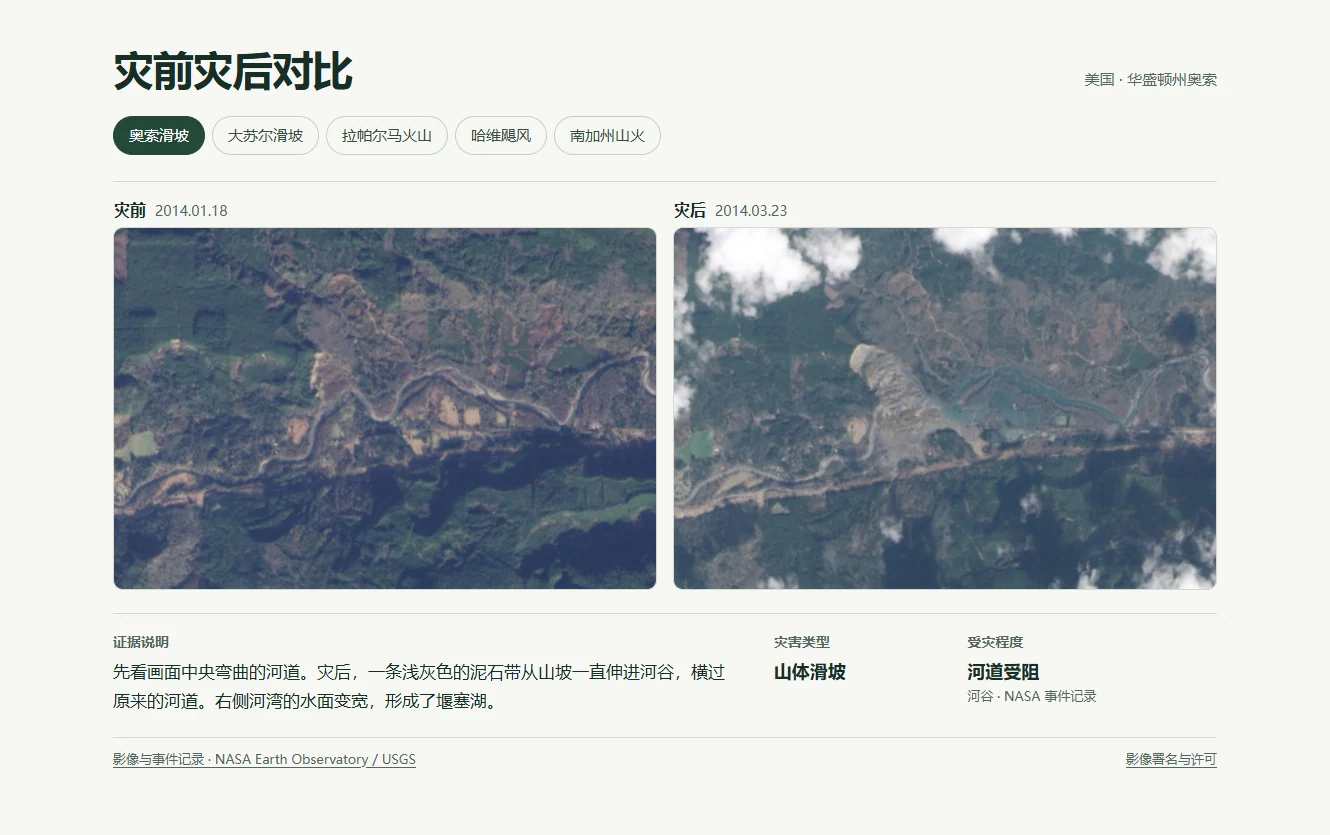
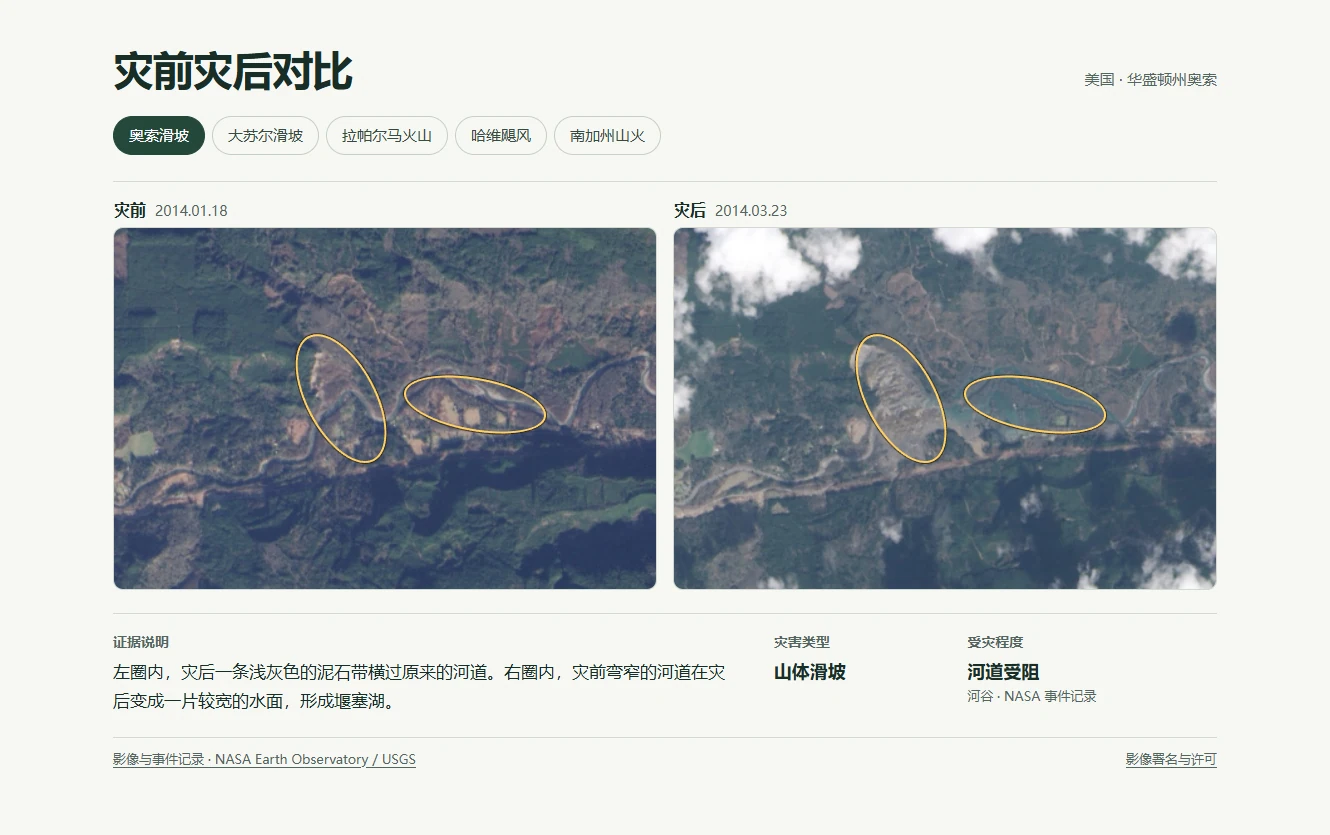
Circle corresponding evidence in both disaster images and their enlarged views

diff --git a/docs/assets/gallery.js b/docs/assets/gallery.js
@@ -6,7 +6,7 @@ const GALLERY = [
     "type": "山体滑坡",
     "severity": "河道受阻",
     "basis": "河谷 · NASA 事件记录",
-    "evidence": "先看画面中央弯曲的河道。灾后，一条浅灰色的泥石带从山坡一直伸进河谷，横过原来的河道。右侧河湾的水面变宽，形成了堰塞湖。",
+    "evidence": "左圈内，灾后一条浅灰色的泥石带横过原来的河道。右圈内，灾前弯窄的河道在灾后变成一片较宽的水面，形成堰塞湖。",
     "credit": "影像与事件记录 · NASA Earth Observatory / USGS",
     "source": "https://science.nasa.gov/earth/earth-observatory/landslide-and-barrier-lake-near-oso-washington-83409/",
     "before": {
@@ -18,7 +18,23 @@ const GALLERY = [
       "date": "2014-03-23",
       "file": "geology/oso-post.png",
       "alt": "奥索滑坡后，泥土和碎屑伸入河道，上游出现更宽的水面。"
-    }
+    },
+    "rings": [
+      [
+        35.5,
+        27.7,
+        13,
+        39,
+        -28
+      ],
+      [
+        53.3,
+        41.6,
+        26.6,
+        14.8,
+        10
+      ]
+    ]
   },
   {
     "id": "mud-creek",
@@ -27,7 +43,7 @@ const GALLERY = [
     "type": "海岸边坡滑塌",
     "severity": "超过 400 米公路被毁",
     "basis": "公路路段 · USGS 调查",
-    "evidence": "灾前，浅色公路沿海岸连续通过。灾后，画面中央的灰褐色土石盖住了这段公路，一直堆到海里，海岸线在这里向外凸出。",
+    "evidence": "灾前，圈内的浅色公路沿海岸连续通过。灾后，灰褐色土石盖住了这段公路，并在岸边堆出一块向海突出的陆地。",
     "credit": "影像 · NASA Earth Observatory / USGS",
     "source": "https://science.nasa.gov/earth/earth-observatory/landslide-buries-scenic-california-highway-90281/",
     "before": {
@@ -39,7 +55,15 @@ const GALLERY = [
       "date": "2017-05-22",
       "file": "geology/mud-creek-post.png",
       "alt": "大苏尔滑坡后，土石堆积伸入海中，海岸轮廓向外突出。"
-    }
+    },
+    "rings": [
+      [
+        41.6,
+        40,
+        14.8,
+        22
+      ]
+    ]
   },
   {
     "id": "la-palma",
@@ -48,7 +72,7 @@ const GALLERY = [
     "type": "火山熔岩覆盖",
     "severity": "大片沿岸农田被覆盖",
     "basis": "沿岸区域 · NASA 影像解读",
-    "evidence": "以左上方的小港口为参照。灾前，沿岸是绿色农田和白色温室。灾后，两条深灰色熔岩带穿过农田、延伸入海，海岸线上多出两处突起。",
+    "evidence": "以上方的小港口为参照。灾前，两处圈内可见农田和温室。灾后，深灰色熔岩沿这两处到达海边，原来的海岸线向海中凸出。",
     "credit": "影像与事件记录 · NASA Earth Observatory / USGS",
     "source": "https://science.nasa.gov/earth/earth-observatory/a-changed-landscape-on-la-palma-149231/",
     "before": {
@@ -60,7 +84,23 @@ const GALLERY = [
       "date": "2021-12-15",
       "file": "geology/volcano/la-palma-after.png",
       "alt": "拉帕尔马岛灾后，两条深灰色熔岩带到达海边，覆盖农田，形成新的陆地。"
-    }
+    },
+    "rings": [
+      [
+        42.1,
+        38.8,
+        19.2,
+        10,
+        -6
+      ],
+      [
+        46.4,
+        64.2,
+        21.2,
+        18,
+        -9
+      ]
+    ]
   },
   {
     "id": "harvey",
@@ -69,31 +109,36 @@ const GALLERY = [
     "type": "飓风",
     "severity": "严重受损",
     "basis": "整栋建筑 · xBD 原始标注",
-    "evidence": "白框标出同一块屋面。灾前框内呈绿色，灾后接近白色，整块区域明显变亮。",
+    "evidence": "两幅图的圈内是同一块屋面。灾前呈绿色，灾后接近白色，局部明显变亮。",
     "credit": "影像与建筑标注 · xBD / Maxar",
     "source": "https://huggingface.co/datasets/ziruihan/xbd_test/blob/361e53f86506e1f221f42a0c0d9619c213220ae5/test/labels/hurricane-harvey_00000304_post_disaster.json",
     "before": {
       "date": "2017-02-16",
       "file": "buildings/b-8d20ecdd66c0-pre.png",
-      "alt": "哈维飓风前的建筑，白框标出用于对照的屋面位置。",
-      "box": [
-        41.369,
-        43.4524,
-        13.0952,
-        16.6667
+      "alt": "哈维飓风前的建筑，圈注标出用于对照的屋面位置。",
+      "rings": [
+        [
+          41.369,
+          43.4524,
+          13.0952,
+          16.6667
+        ]
       ]
     },
     "after": {
       "date": "2017-08-31",
       "file": "buildings/b-8d20ecdd66c0-post.png",
-      "alt": "哈维飓风后的同一栋建筑，白框标出相应的屋面位置。",
-      "box": [
-        40.1786,
-        43.4524,
-        13.0952,
-        16.6667
+      "alt": "哈维飓风后的同一栋建筑，圈注标出相应的屋面位置。",
+      "rings": [
+        [
+          40.1786,
+          43.4524,
+          13.0952,
+          16.6667
+        ]
       ]
-    }
+    },
+    "subject": "building"
   },
   {
     "id": "socal-fire",
@@ -102,30 +147,35 @@ const GALLERY = [
     "type": "山火",
     "severity": "无明显损伤",
     "basis": "整栋建筑 · xBD 原始标注",
-    "evidence": "白框内的屋面从棕褐色变为灰褐色。灾后，同一区域内的深浅差异更容易分辨。",
+    "evidence": "圈内的屋面从棕褐色变为灰褐色，灾后深浅差异更明显。这栋建筑的整体标注为无明显损伤。",
     "credit": "影像与建筑标注 · xBD / Maxar",
     "source": "https://huggingface.co/datasets/ziruihan/xbd_test/blob/361e53f86506e1f221f42a0c0d9619c213220ae5/test/labels/socal-fire_00000877_post_disaster.json",
     "before": {
       "date": "2018-10-23",
       "file": "buildings/b-abe0ad891f51-pre.png",
-      "alt": "南加州山火前的建筑，白框标出用于对照的屋面位置。",
-      "box": [
-        50.8929,
-        49.4048,
-        14.5833,
-        11.0119
+      "alt": "南加州山火前的建筑，圈注标出用于对照的屋面位置。",
+      "rings": [
+        [
+          50.8929,
+          49.4048,
+          14.5833,
+          11.0119
+        ]
       ]
     },
     "after": {
       "date": "2018-11-14",
       "file": "buildings/b-abe0ad891f51-post.png",
-      "alt": "南加州山火后的同一栋建筑，白框标出相应的屋面位置。",
-      "box": [
-        52.9762,
-        51.4881,
-        14.5833,
-        11.0119
+      "alt": "南加州山火后的同一栋建筑，圈注标出相应的屋面位置。",
+      "rings": [
+        [
+          52.9762,
+          51.4881,
+          14.5833,
+          11.0119
+        ]
       ]
-    }
+    },
+    "subject": "building"
   }
 ];

diff --git a/docs/assets/workspace.js b/docs/assets/workspace.js
@@ -3,23 +3,26 @@
 const byId = id => document.getElementById(id);
 const buttons = byId("cases");
 
-function showPhoto(id, photo) {
-  const figure = byId(id);
+function showPhoto(phase, record) {
+  const photo = record[phase];
+  const figure = byId(phase);
   const image = figure.querySelector("img");
   image.src = "assets/" + photo.file;
   image.alt = photo.alt;
-  figure.querySelector(".photo").href = image.getAttribute("src");
+  figure.querySelector(".photo").href = "?" + new URLSearchParams({case: record.id, phase});
   const date = figure.querySelector("time");
   date.dateTime = photo.date;
   date.textContent = photo.date.replaceAll("-", ".");
-  const marker = figure.querySelector(".marker");
-  marker.hidden = !photo.box;
-  if (photo.box) {
-    const [x, y, width, height] = photo.box;
-    Object.assign(marker.style, {
-      left: x + "%", top: y + "%", width: width + "%", height: height + "%"
+  const rings = photo.rings ?? record.rings;
+  figure.querySelector(".rings").replaceChildren(...rings.map(([x, y, width, height, angle = 0]) => {
+    const ring = document.createElement("span");
+    ring.className = "ring";
+    Object.assign(ring.style, {
+      left: x + "%", top: y + "%", width: width + "%", height: height + "%",
+      transform: "rotate(" + angle + "deg)"
     });
-  }
+    return ring;
+  }));
 }
 
 function selectCase(record) {
@@ -27,9 +30,9 @@ function selectCase(record) {
   for (const field of ["evidence", "type", "severity", "basis"]) {
     byId(field).textContent = record[field];
   }
-  showPhoto("before", record.before);
-  showPhoto("after", record.after);
-  document.querySelector(".comparison").classList.toggle("building", Boolean(record.before.box));
+  showPhoto("before", record);
+  showPhoto("after", record);
+  document.querySelector(".comparison").classList.toggle("building", record.subject === "building");
   const source = byId("source");
   source.textContent = record.credit;
   source.href = record.source;
@@ -38,12 +41,29 @@ function selectCase(record) {
   }
 }
 
-for (const record of GALLERY) {
-  const button = document.createElement("button");
-  button.type = "button";
-  button.value = record.id;
-  button.textContent = record.name;
-  button.addEventListener("click", () => selectCase(record));
-  buttons.append(button);
+const params = new URLSearchParams(location.search);
+const selected = GALLERY.find(record => record.id === params.get("case"));
+const phase = params.get("phase");
+if (selected && (phase === "before" || phase === "after")) {
+  showPhoto(phase, selected);
+  const figure = byId(phase);
+  // The enlarged view uses the same image-relative annotations as the comparison.
+  const link = figure.querySelector(".photo");
+  const photo = document.createElement("div");
+  photo.className = "photo";
+  photo.append(...link.childNodes);
+  link.replaceWith(photo);
+  figure.classList.add("enlarged");
+  document.querySelector("main").replaceChildren(figure);
+  document.title = selected.name + " · " + figure.querySelector("strong").textContent;
+} else {
+  for (const record of GALLERY) {
+    const button = document.createElement("button");
+    button.type = "button";
+    button.value = record.id;
+    button.textContent = record.name;
+    button.addEventListener("click", () => selectCase(record));
+    buttons.append(button);
+  }
+  selectCase(GALLERY[0]);
 }
-selectCase(GALLERY[0]);

diff --git a/docs/index.html b/docs/index.html
@@ -20,11 +20,11 @@
       <div class="comparison">
         <figure id="before">
           <figcaption><strong>灾前</strong><time></time></figcaption>
-          <div class="frame"><a class="photo" target="_blank" rel="noopener" aria-label="打开完整灾前影像（新标签页）"><img alt=""><span class="marker" hidden></span></a></div>
+          <div class="frame"><a class="photo" target="_blank" rel="noopener" aria-label="打开放大的灾前圈注图（新标签页）"><img alt=""><span class="rings" aria-hidden="true"></span></a></div>
         </figure>
         <figure id="after">
           <figcaption><strong>灾后</strong><time></time></figcaption>
-          <div class="frame"><a class="photo" target="_blank" rel="noopener" aria-label="打开完整灾后影像（新标签页）"><img alt=""><span class="marker" hidden></span></a></div>
+          <div class="frame"><a class="photo" target="_blank" rel="noopener" aria-label="打开放大的灾后圈注图（新标签页）"><img alt=""><span class="rings" aria-hidden="true"></span></a></div>
         </figure>
       </div>
       <div class="reading">

diff --git a/docs/assets/style.css b/docs/assets/style.css
@@ -38,7 +38,13 @@ time { font-size: 14px; color: var(--muted); font-variant-numeric: tabular-nums;
 .photo img { display: block; width: 100%; height: auto; }
 .building .frame { aspect-ratio: 3 / 2; }
 .building .photo { width: 66.66%; }
-.marker { position: absolute; border: 2px solid white; outline: 1px solid #254433; box-shadow: inset 0 0 0 1px #254433; }
+.rings { position: absolute; inset: 0; pointer-events: none; }
+.ring {
+  position: absolute; border-radius: 50%; border: 2px solid #ffcf62;
+  box-shadow: 0 0 0 1px rgb(48 32 11 / 80%);
+}
+.enlarged .photo { cursor: auto; }
+.enlarged .ring { border-width: 3px; }
 [hidden] { display: none !important; }
 .reading {
   margin-top: 23px; padding: 17px 0 22px; border-top: 1px solid var(--line);

diff --git a/scripts/check_release.py b/scripts/check_release.py
@@ -77,11 +77,22 @@ def check_gallery():
         if date.fromisoformat(before["date"]) >= date.fromisoformat(after["date"]):
             raise ValueError(f"Invalid image chronology: {row['id']}")
         sizes = []
+        counts = []
         for photo in (before, after):
             check_url(gallery, photo["file"], SITE, asset=True)
             with Image.open(gallery.parent / photo["file"]) as image:
                 image.load()
                 sizes.append(image.size)
+            rings = photo.get("rings", row.get("rings", []))
+            if not rings:
+                raise ValueError(f"Missing change annotation: {photo['file']}")
+            for x, y, width, height, *angle in rings:
+                if not (0 <= x < x + width <= 100 and 0 <= y < y + height <= 100
+                        and len(angle) <= 1 and all(-180 <= a <= 180 for a in angle)):
+                    raise ValueError(f"Invalid change annotation: {photo['file']}")
+            counts.append(len(rings))
+        if counts[0] != counts[1]:
+            raise ValueError(f"Unpaired change annotations: {row['id']}")
         if sizes[0] != sizes[1] or before["file"] == after["file"]:
             raise ValueError(f"Expected two equally sized views: {row['id']}")
     print(f"Verified {len(records)} before-and-after image pairs.")

diff --git a/docs/DATA-NOTICE.md b/docs/DATA-NOTICE.md
@@ -2,7 +2,7 @@
 
 ## 滑坡和火山
 
-三组案例均使用 NASA Earth Observatory 发布的 Landsat 8 影像。每组两期取同一地点和相同像素范围，页面保留采集日期及影像方向。灾情说明由项目根据官方事件记录整理，受灾程度描述受影响的河道、路段或农田。
+三组案例均使用 NASA Earth Observatory 发布的 Landsat 8 影像。每组两期取同一地点和相同像素范围，页面保留采集日期及影像方向。两期影像的对照圈由项目人工标在相同的图上位置，帮助找到下文描述的变化。灾情说明由项目根据官方事件记录整理，受灾程度描述受影响的河道、路段或农田。
 
 | 案例 | 灾前 → 灾后 | 制图与数据 | 受灾程度的依据 |
 | --- | --- | --- | --- |
@@ -14,7 +14,7 @@
 
 ## xBD 建筑
 
-两栋建筑的灾前后 RGB 来自 xBD 测试分区，影像归属 Maxar / DigitalGlobe Open Data Program，建筑标注由 Ritwik Gupta 等发布。展示的四张 336 × 336 PNG 与仓库测试清单里的无描边裁图逐字节相同。白框取自本项目对同栋两期影像实际测量的局部窗口。采集日期来自对应图块标注文件的 `metadata.capture_date`，整栋程度直接翻译 xBD 的灾后标注。局部说明来自该栋已保存的图像测量与核验记录。
+两栋建筑的灾前后 RGB 来自 xBD 测试分区，影像归属 Maxar / DigitalGlobe Open Data Program，建筑标注由 Ritwik Gupta 等发布。展示的四张 336 × 336 PNG 与仓库测试清单里的无描边裁图逐字节相同。圈注以各期实测屋面窗口为中心，标出供对照的局部。采集日期来自对应图块标注文件的 `metadata.capture_date`，整栋程度直接翻译 xBD 的灾后标注。局部说明来自该栋已保存的图像测量与核验记录。
 
 | 案例 | 目标建筑 | 采集日 | 官方标注文件 |
 | --- | --- | --- | --- |

diff --git a/README.md b/README.md
@@ -6,9 +6,9 @@
 
 ## 打开网页示例
 
-下载并完整解压仓库，双击 [docs/index.html](docs/index.html)。选择奥索滑坡、大苏尔海岸滑坡、拉帕尔马火山、哈维飓风或南加州山火，即可并排看两期实图、拍摄日期和证据说明。点击照片可在新标签页查看完整图像。全部案例都可离线打开。
+下载并完整解压仓库，双击 [docs/index.html](docs/index.html)。选择奥索滑坡、大苏尔海岸滑坡、拉帕尔马火山、哈维飓风或南加州山火，即可并排看两期实图、拍摄日期和证据说明。两期影像用圈标出相应位置。点击照片可在新标签页放大查看带圈注的影像。全部案例都可离线打开。
 
-滑坡和火山案例从 NASA 与 USGS 记录提取区域影响。两栋建筑的受灾程度用 xBD 原始标注，白框标出本项目测量的屋面位置。地质灾害案例用于读图演示，未计入屋面或建筑模型的评测。[影像来源及口径](docs/DATA-NOTICE.md) · [模型评测记录](results/README.md)
+滑坡和火山案例从 NASA 与 USGS 记录提取区域影响。两栋建筑的受灾程度用 xBD 原始标注，圈注标出本项目测量的屋面位置。地质灾害案例用于读图演示，未计入屋面或建筑模型的评测。[影像来源及口径](docs/DATA-NOTICE.md) · [模型评测记录](results/README.md)
 
 也可以在仓库根目录启动静态服务，用浏览器打开 `http://127.0.0.1:8768/`。
 
